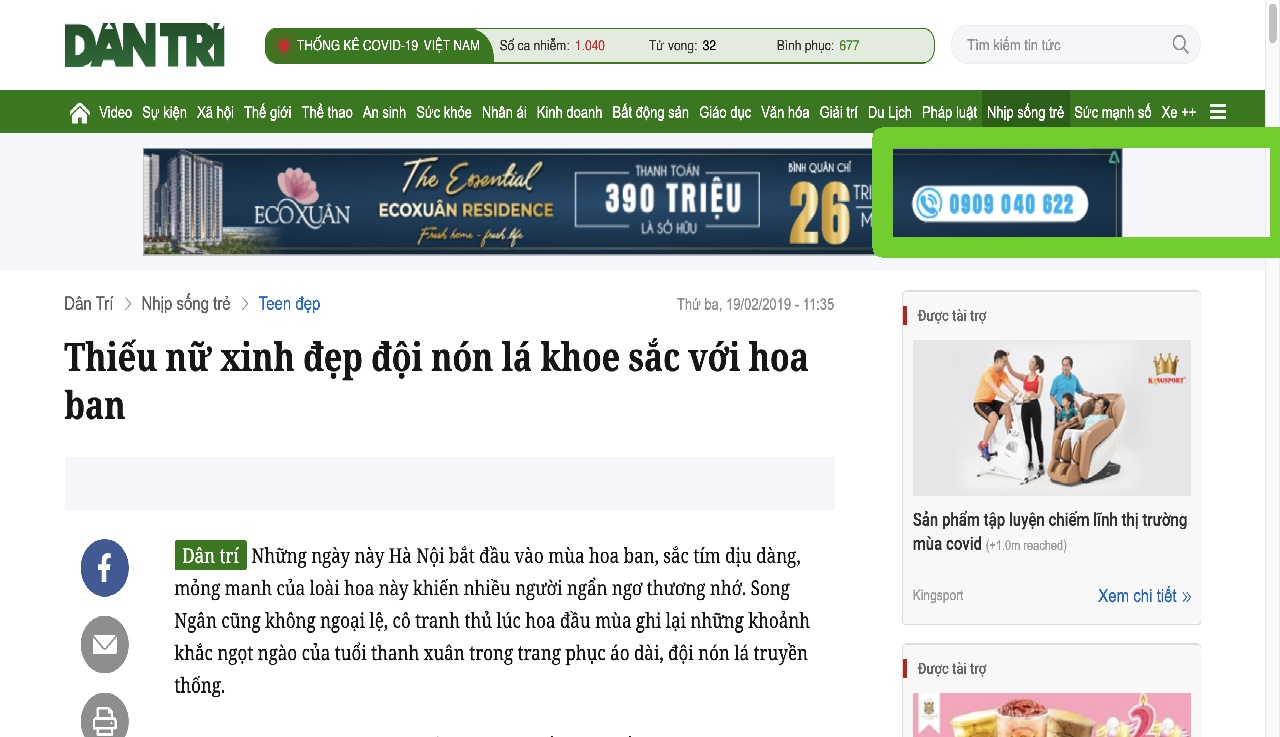
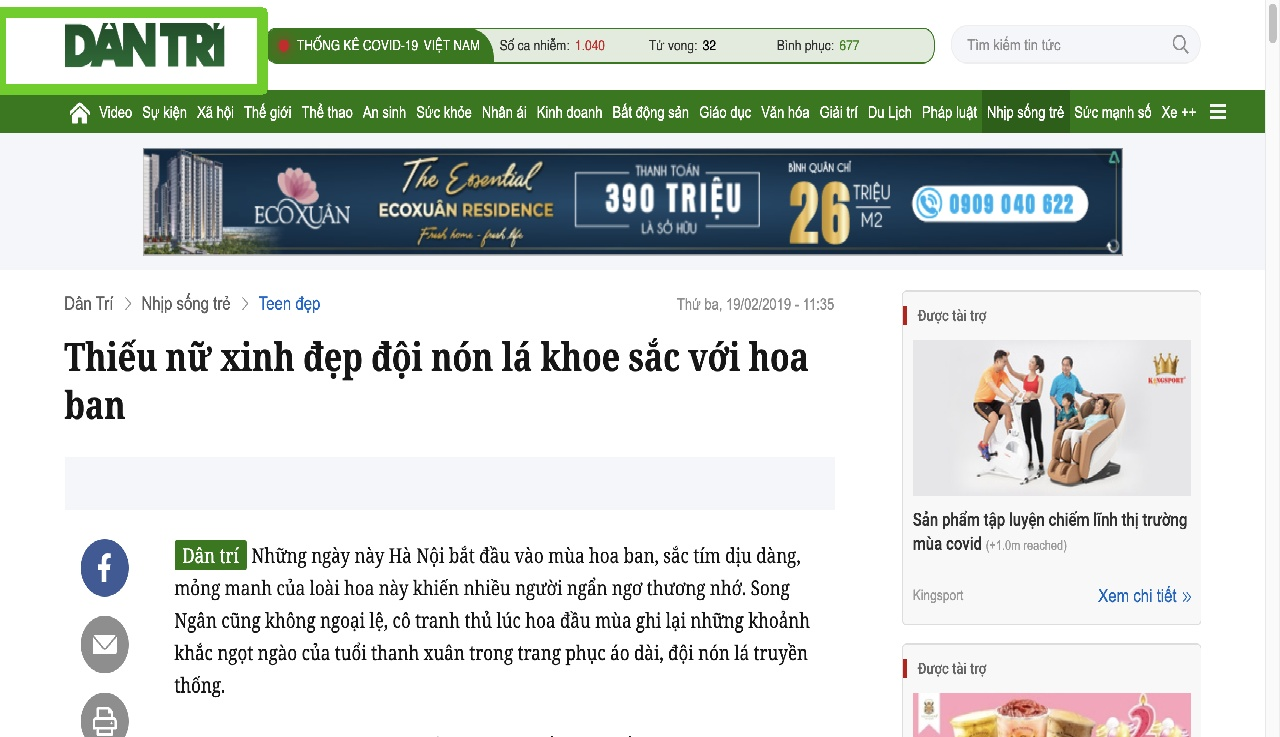
Edit thick of matching image

Changed region(s): [[0.6562, 0.156, 1.0, 0.3745], [0.0, 0.0, 0.2188, 0.156]]

diff --git a/src/main/java/utils/OpenCVComparisonUtil.java b/src/main/java/utils/OpenCVComparisonUtil.java
@@ -64,7 +64,7 @@ public class OpenCVComparisonUtil {
 
         //Draw rectangle on result image
         Imgproc.rectangle(source, matchLoc, new Point(matchLoc.x + template.cols(),
-                matchLoc.y + template.rows()), new Scalar(46, 204, 113), 20);
+                matchLoc.y + template.rows()), new Scalar(46, 204, 113), 10);
         Imgcodecs.imwrite("src/main/resources/images/matchimage/matchImage1.jpg", source);
         if (mmr.maxVal < 0.9) {
             matchImage = false;

diff --git a/src/test/java/features/WhenMatchingImage.java b/src/test/java/features/WhenMatchingImage.java
@@ -12,7 +12,7 @@ public class WhenMatchingImage extends Hook {
 
     @Test
     public void whenMatchingImage_thenShouldSeeCompareResult() {
-        String template = "src/main/resources/images/matchimage/sub_image2.png";
+        String template = "src/main/resources/images/matchimage/sub_image1.png";
         String source = "src/main/resources/images/matchimage/image1.png";
         OpenCVComparisonUtil.matchingImage(source, template);
     }
